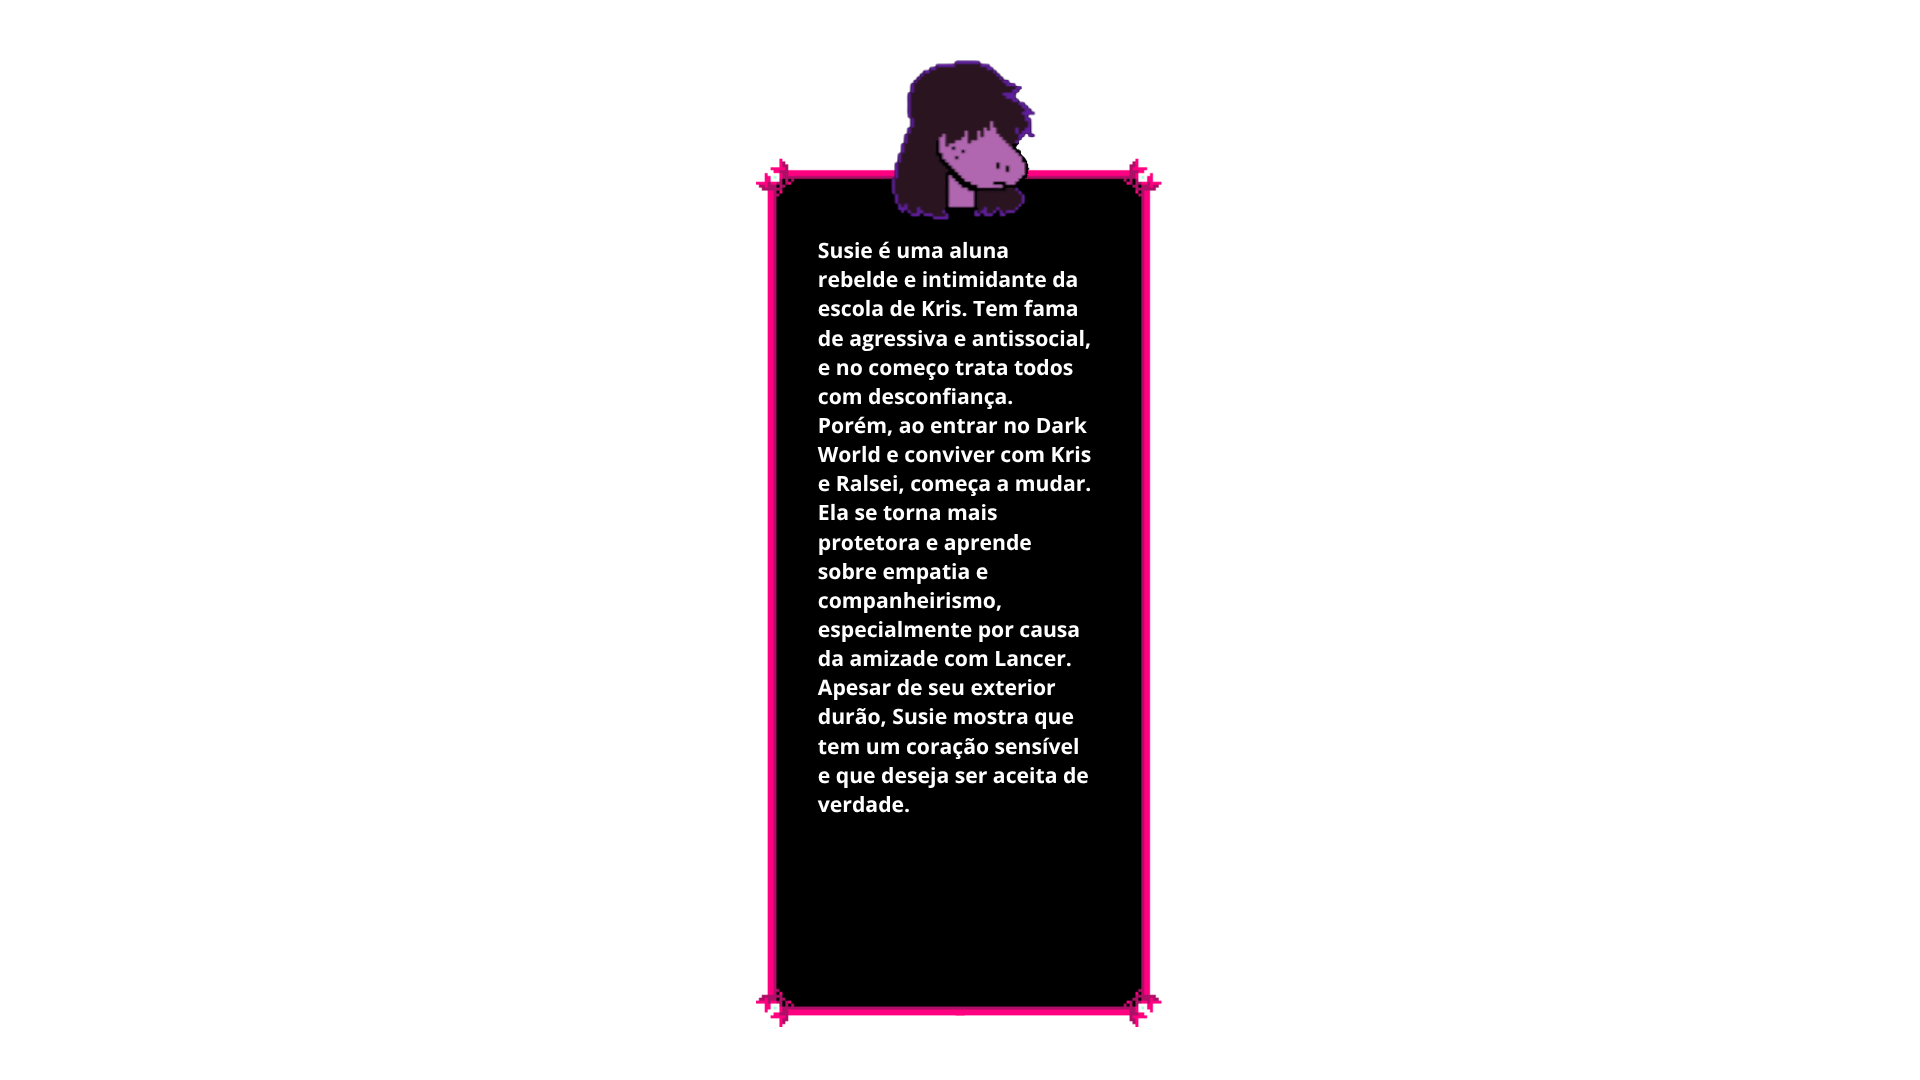
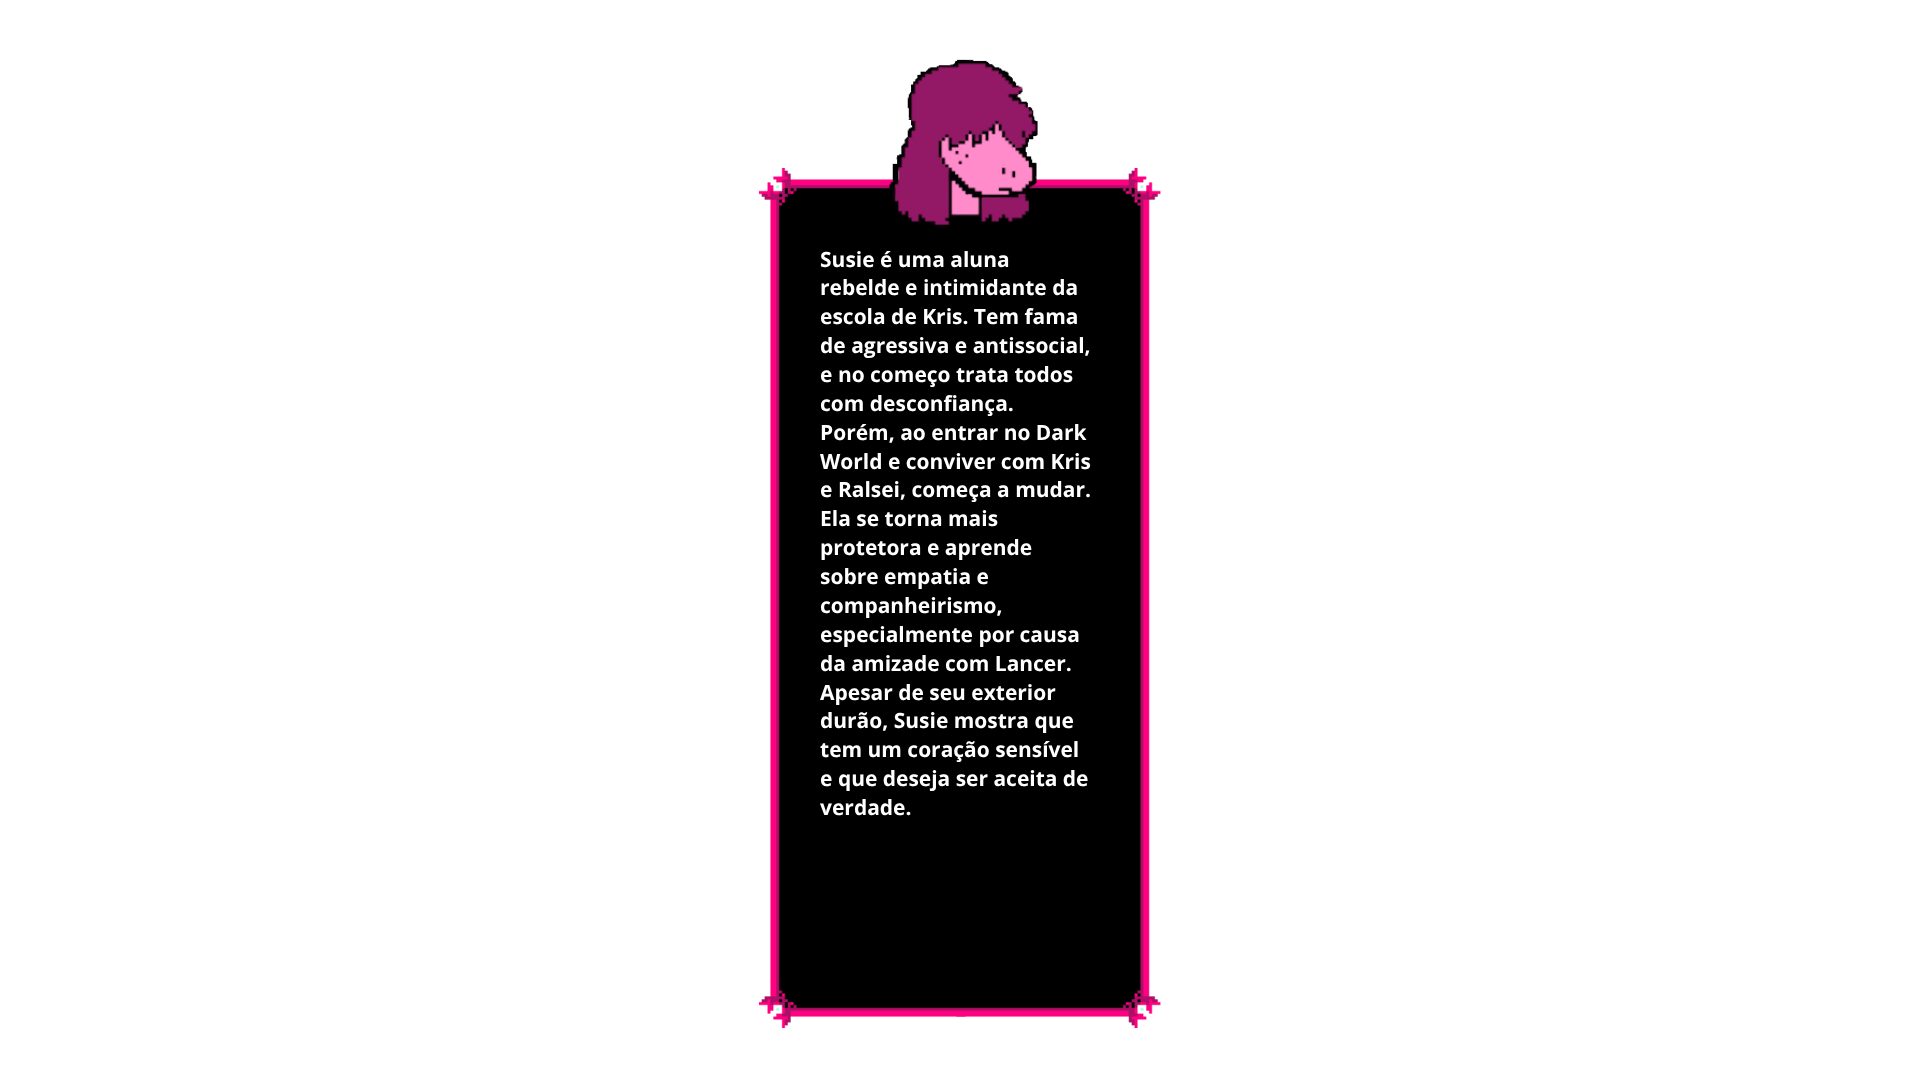
adicionando nova imagem mobile da susie e arrumando o html da mesma

Changed region(s): [[0.375, 0.0611, 0.625, 0.9472]]

diff --git a/susie.html b/susie.html
@@ -23,19 +23,15 @@
                 <li><a href="./noelle.html" id="noelle">NOELLE</a></li>
                 </ul>
             </nav>
-            <div class="hamburguer">
-                <span class="barra"></span>
-                <span class="barra"></span>
-                <span class="barra"></span>
-                <span class="barra"></span>
-                <span class="barra"></span>
-            </div>
         </header>
 
        
 
         <div class="personagem">
+            <picture>
+                <source media="(max-width: 1010px)" srcset="./src/assets/textsusie.png">
             <img src="./src/assets/susie.png" alt="">
+            </picture>
             
         </div>
 
